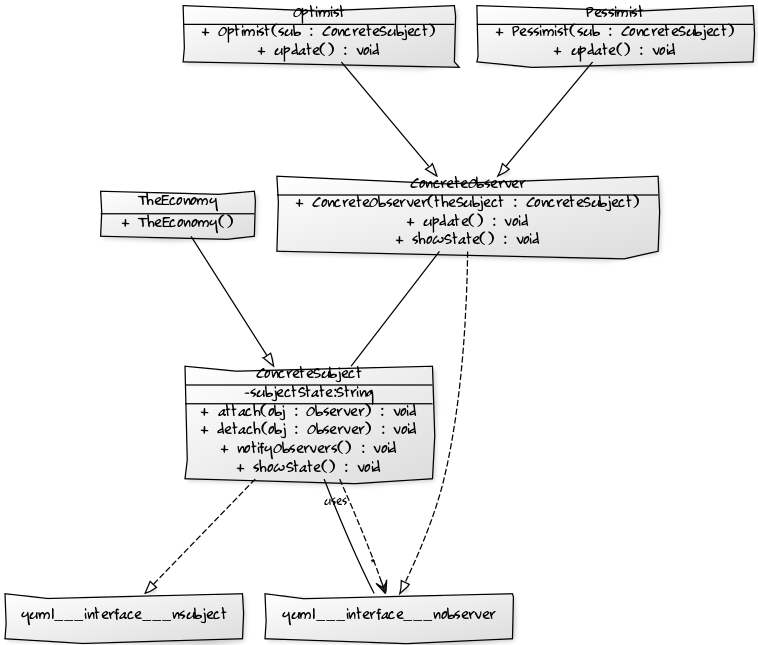
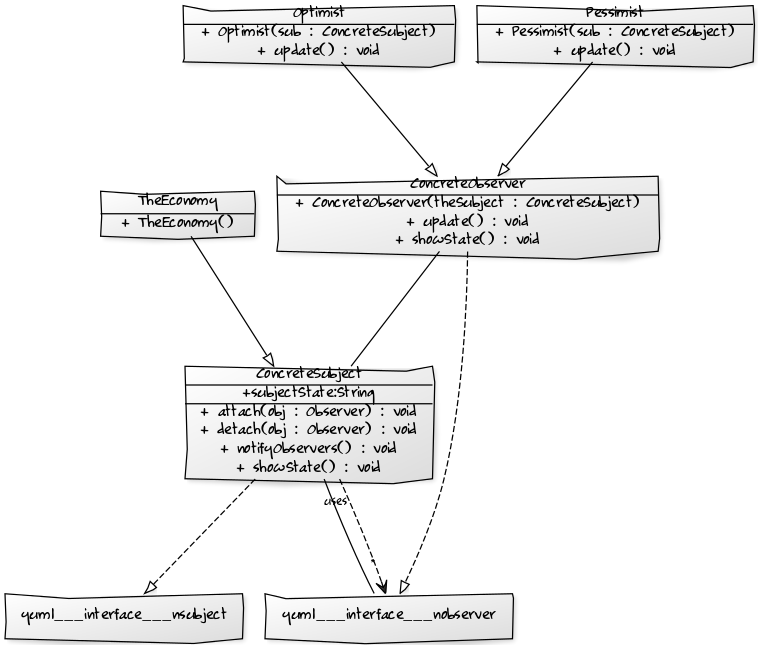
Added doc tags

diff --git a/umlparser/src/generatorClasses/MyJavaCodeParser.java b/umlparser/src/generatorClasses/MyJavaCodeParser.java
@@ -147,6 +147,11 @@ public class MyJavaCodeParser {
 		
 	}
 	
+	/** This method changes the access modifiers from private to public
+	 *  of those attributes that have setter and getter methods
+	 * @param intermediateGrammer
+	 * @return intermediateGrammer
+	 */
 	private String changeAttributesAccessModifierToPublic(String intermediateGrammer)
 	{
 		StringBuilder sb = new StringBuilder(intermediateGrammer);
@@ -155,9 +160,8 @@ public class MyJavaCodeParser {
     	 if(intermediateGrammer.contains(varName))
     	     {
     		 int indexOfVariable = intermediateGrammer.indexOf(varName);
-    		 sb.setCharAt(indexOfVariable-1, '+');
-    		 System.out.println(varName+indexOfVariable);
-    		 System.out.println(sb);
+    		 if(sb.charAt(indexOfVariable-1) == '-')
+    		     sb.setCharAt(indexOfVariable-1, '+');
     	     }
      }
      return sb.toString();
@@ -183,6 +187,14 @@ public class MyJavaCodeParser {
 		return resultantIntermediateString;
 	}
 	
+	/**
+	 * This method generates the intermediate grammar by combining
+	 * the className, variablesString and methodsString
+	 * @param classNames
+	 * @param variablesString
+	 * @param methodsString
+	 * @return
+	 */
     private String getResultString(String classNames, String variablesString, String methodsString)
     {
     	String result;
@@ -197,6 +209,11 @@ public class MyJavaCodeParser {
     	return result;
     }
     
+    /**
+     * This method gets the class name from the compilation unit
+     * @param cu
+     * @return
+     */
 	private String getClassName(CompilationUnit cu){
 		List<TypeDeclaration> c1 = cu.getTypes();
 		for(Node codeBlock : c1)
@@ -222,6 +239,11 @@ public class MyJavaCodeParser {
 		return "";
 	}
 	
+	/**
+	 * This method returns the Method Compartment of a class/interface
+	 * @param node
+	 * @return
+	 */
 	private String getMethodCompartment(Node node) {
 		boolean nextMethod = false;
 		String methodString = "";
@@ -342,6 +364,11 @@ public class MyJavaCodeParser {
 		return methodString;
 	}
 
+	/**
+	 * This method return the variable compartment of the class
+	 * @param node
+	 * @return
+	 */
 	private String getVariableCompartment(Node node) {
 		boolean nextVariable = false;
 		String variableString = "";

diff --git a/ClassDiagramsTestCases/class-diagram-test-4/ConcreteSubject.java b/ClassDiagramsTestCases/class-diagram-test-4/ConcreteSubject.java
@@ -3,7 +3,7 @@ import java.util.*;
 
 public class ConcreteSubject implements Subject {
  
-	private String subjectState;
+	public String subjectState;
 	 
 	private Collection<Observer> observers = new ArrayList<Observer>() ;
 	 
